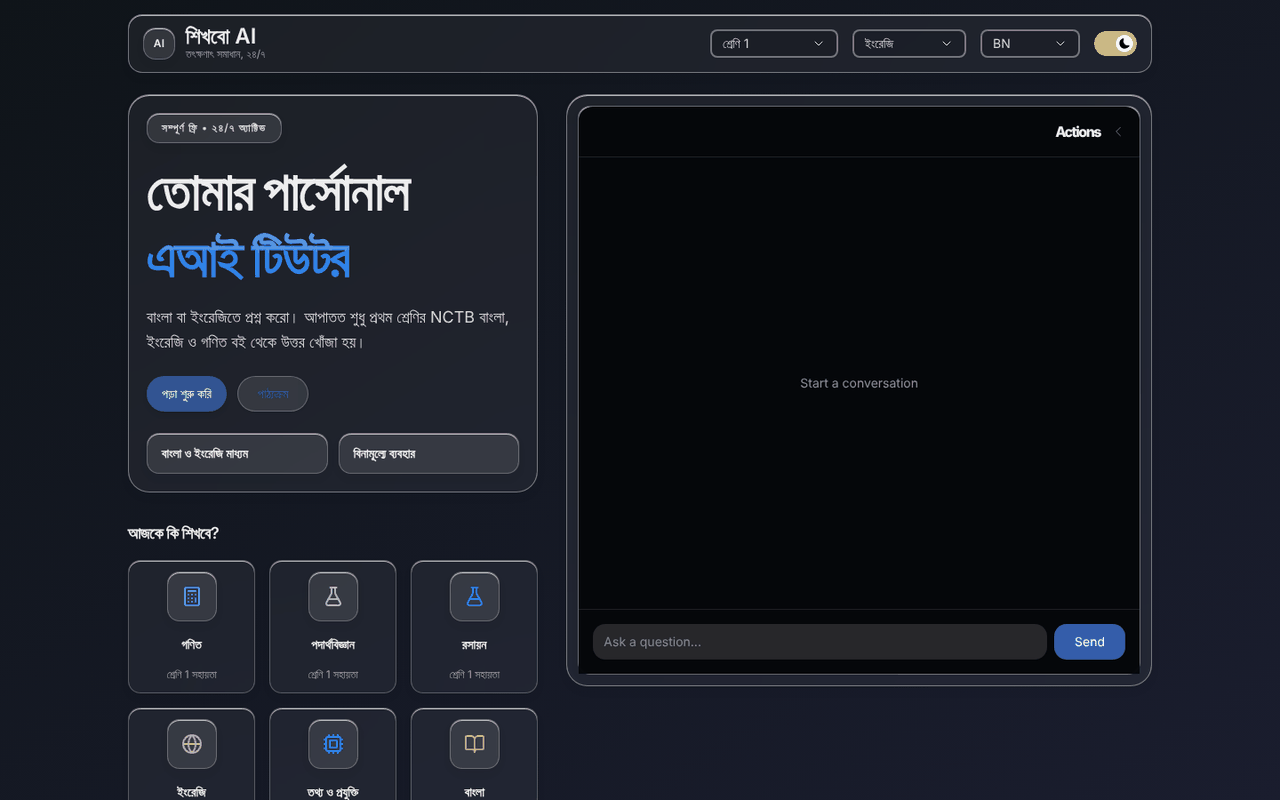
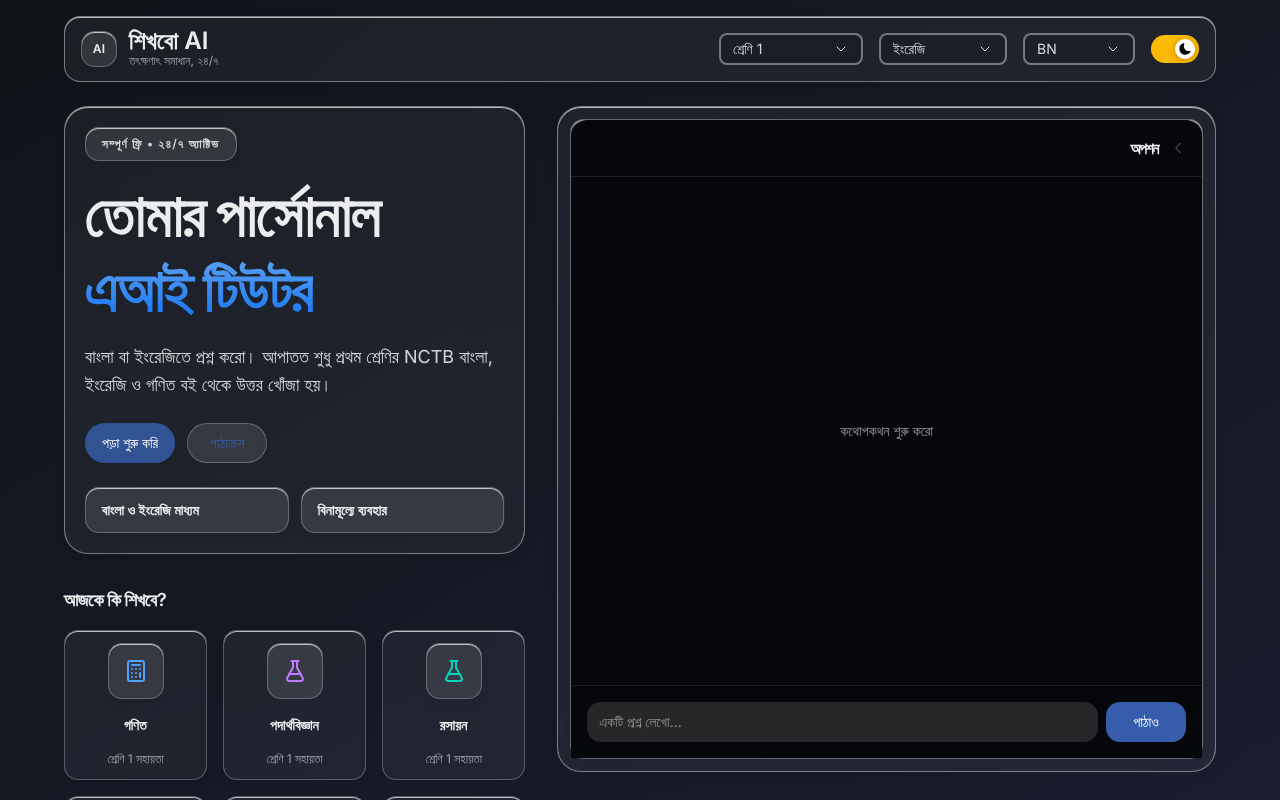
docs(readme): recapture screenshots and correct two claims
- The screenshots are new 1280 x 800 captures at device scale 1 in full
  colour. The old files were a 1440 x 900 capture scaled down and
  reduced to a 256-colour palette, which changed the icon colours. They
  now also show the Bangla chat box.
- The chat has its own message for rate_limited, not_configured and
  providers_unavailable only; the rest get the generic error. The README
  said every code had its own.
- Notes that next-env.d.ts is generated and gitignored, AGENTS.md is
  committed, and typecheck runs next typegen.

Claude-Session: https://claude.ai/code/session_019tpGUuZk5QU8Fd6pKpAYHh

Changed region(s): [[0.0625, 0.0, 0.9375, 1.0], [0.625, 0.4688, 0.7188, 0.5], [0.6562, 0.5312, 0.7188, 0.5625]]

diff --git a/README.md b/README.md
@@ -16,10 +16,10 @@ Screenshots from a local production build (`npm run build && npm start`), 1280 x
 
 ## Features
 
-- Ask a question in a chat box. Pick the class (1 to 12) and the medium (Bangla or English); the UI itself switches between Bangla and English.
+- Ask a question in a chat box. Pick the class (1 to 12) and the medium (Bangla or English). The page, chat box included, switches between Bangla (the default) and English.
 - Textbook lookup (RAG): the question is matched against OCR'd pages of NCTB textbooks in Upstash Vector, filtered by class and medium, and the best pages go to the model as context.
 - Three chat providers tried in order (OpenRouter, Hugging Face Inference Providers, Groq), so one provider being down or out of free quota does not stop answers.
-- Answers render as Markdown with KaTeX math. The conversation stays in the browser and can be exported as a text file.
+- Answers render as Markdown (headings, numbered and bulleted lists, code) with KaTeX math. The conversation stays in the browser and can be exported as a text file.
 - Per-IP rate limit (Upstash Redis, or in memory for local work) and a 5-minute answer cache.
 - Clear failures: with no provider key the API answers `503` with `code: "not_configured"` and the chat says the tutor is not set up; a Redis or vector URL that is not an `https://` REST URL disables that one service (and `/api/health` reports it) and logs which variable to fix.
 - `GET /api/health` reports whether the deployment has a chat provider and textbook lookup (counts and booleans only).
@@ -49,7 +49,7 @@ The app is a single Next.js 16 page plus `POST /api/teach` and `GET /api/health`
 5. **Retrieval.** The question is embedded with `sentence-transformers/all-MiniLM-L6-v2` on Hugging Face and matched against Upstash Vector (top 5 pages, filtered by class and medium). If the embedding call or the vector query fails, or takes more than 5 seconds, the tutor answers without textbook context instead of failing.
 6. **Generation.** Providers are tried in order: OpenRouter, Hugging Face Inference Providers, Groq. The first non-empty answer wins. `<think>...</think>` reasoning blocks are removed before the answer is returned. If every provider fails, the route answers `503 providers_unavailable`.
 
-Every error body has the shape `{ "error": "...", "code": "..." }`. The codes are `rate_limited` (429), `not_configured` (503), `too_large` (413), `invalid_input` (400), `providers_unavailable` (503) and `internal_error` (500). The chat maps each code to its own Bangla or English message.
+Every error body has the shape `{ "error": "...", "code": "..." }`. The codes are `rate_limited` (429), `not_configured` (503), `too_large` (413), `invalid_input` (400), `providers_unavailable` (503) and `internal_error` (500). The chat shows its own Bangla or English message for `rate_limited`, `not_configured` and `providers_unavailable`, and a generic error message for the rest.
 
 ## Tech stack
 
@@ -85,6 +85,8 @@ npm run test:e2e                 # smoke tests against the production build
 ```
 
 `npm run test:e2e` starts `next start` on port 3100 itself. It passes with or without provider keys: the tests read `/api/health` and check the behaviour that matches.
+
+`next-env.d.ts` is generated by `next dev`, `next build` and `npm run typecheck` (through `next typegen`), so it is gitignored, as the Next.js docs advise. `AGENTS.md` is the instruction block `next dev` writes for AI coding agents; it is committed so running the dev server leaves the working tree clean.
 
 ## Environment variables
 
@@ -139,7 +141,7 @@ The script OCRs every page with Tesseract (`ben` for `books/bengali/`, `eng` for
 | `npm run build` | Production build |
 | `npm start` | Serve the production build |
 | `npm run lint` | ESLint |
-| `npm run typecheck` | `tsc --noEmit` |
+| `npm run typecheck` | `next typegen`, then `tsc --noEmit` |
 | `npm test` | Unit tests (`bun test`, files in `__tests__/`) |
 | `npm run test:e2e` | Playwright smoke tests in `e2e/` (run `npm run build` first) |
 | `npm run books:fetch` | Download the NCTB textbooks listed in `books/sources.json` (add `-- --ocr` to also fetch the Tesseract data) |
